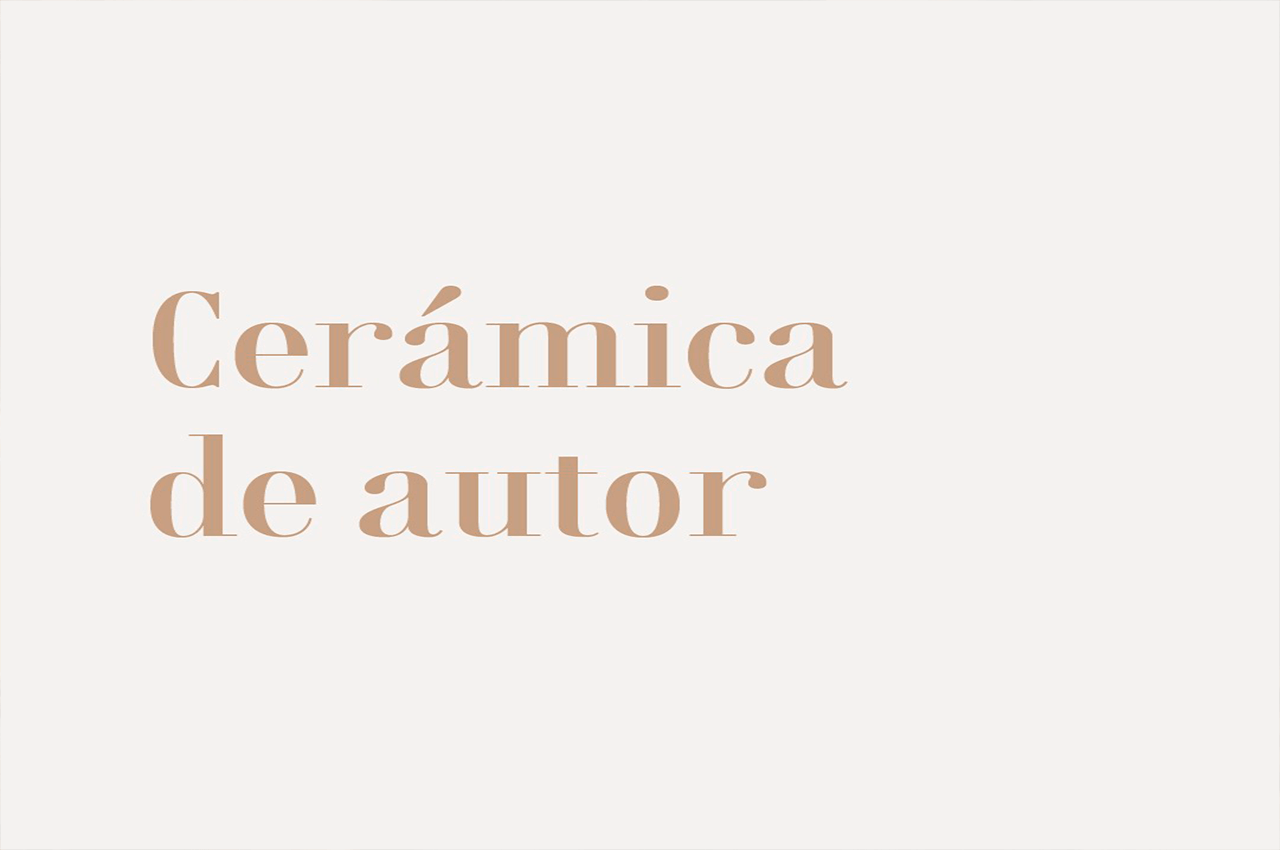
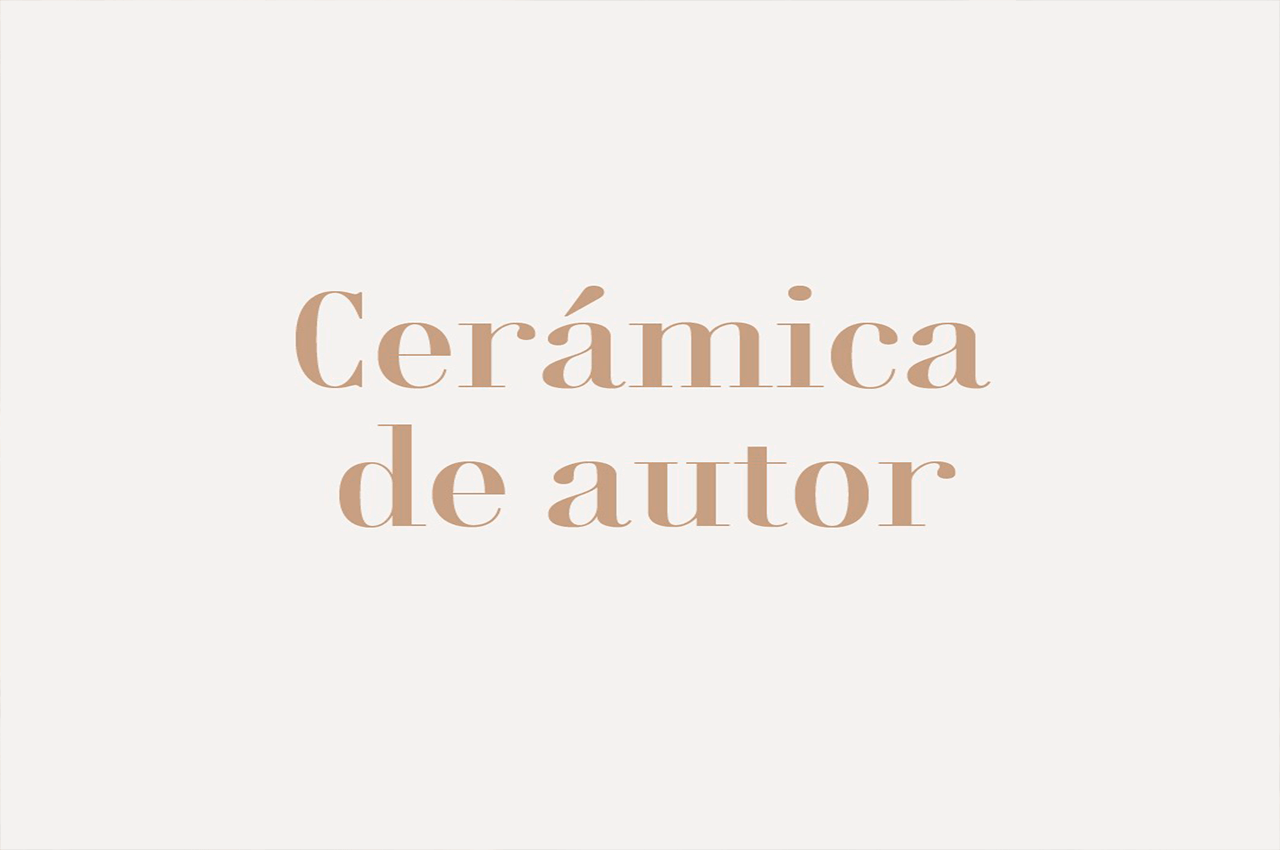
cambio de foto

Changed region(s): [[0.0938, 0.3365, 0.7812, 0.4588], [0.0938, 0.4894, 0.75, 0.6424]]

diff --git a/index.html b/index.html
@@ -92,8 +92,7 @@
             <div class="carousel-inner">
 
                 <div class="carousel-item active">
-                    <img src="https://res.cloudinary.com/dsx4fvh7f/image/upload/w_1000,ar_16:9,c_fill,g_auto,e_sharpen/v1647217135/assets/ceramica-autor_nrjslh.jpg"
-                        class="d-block w-100" alt="slide1">
+                    <img src="./assets/ceramica de autor1.png" class="d-block w-100" alt="slide1">
                 </div>
 
                 <div class="carousel-item">
@@ -164,7 +163,7 @@
                 </div>
 
                 <div class="card" data-aos="fade-up">
-                    <img src="./assets/img2.jpg"  alt="imagen2">
+                    <img src="./assets/img2.jpg" alt="imagen2">
                     <h4>Originalidad</h4>
                     <p>Cada pieza Fresnos es única: Ninguna es igual a la otra, y todas cuentan con detalles que las
                         vuelven singulares. </p>
